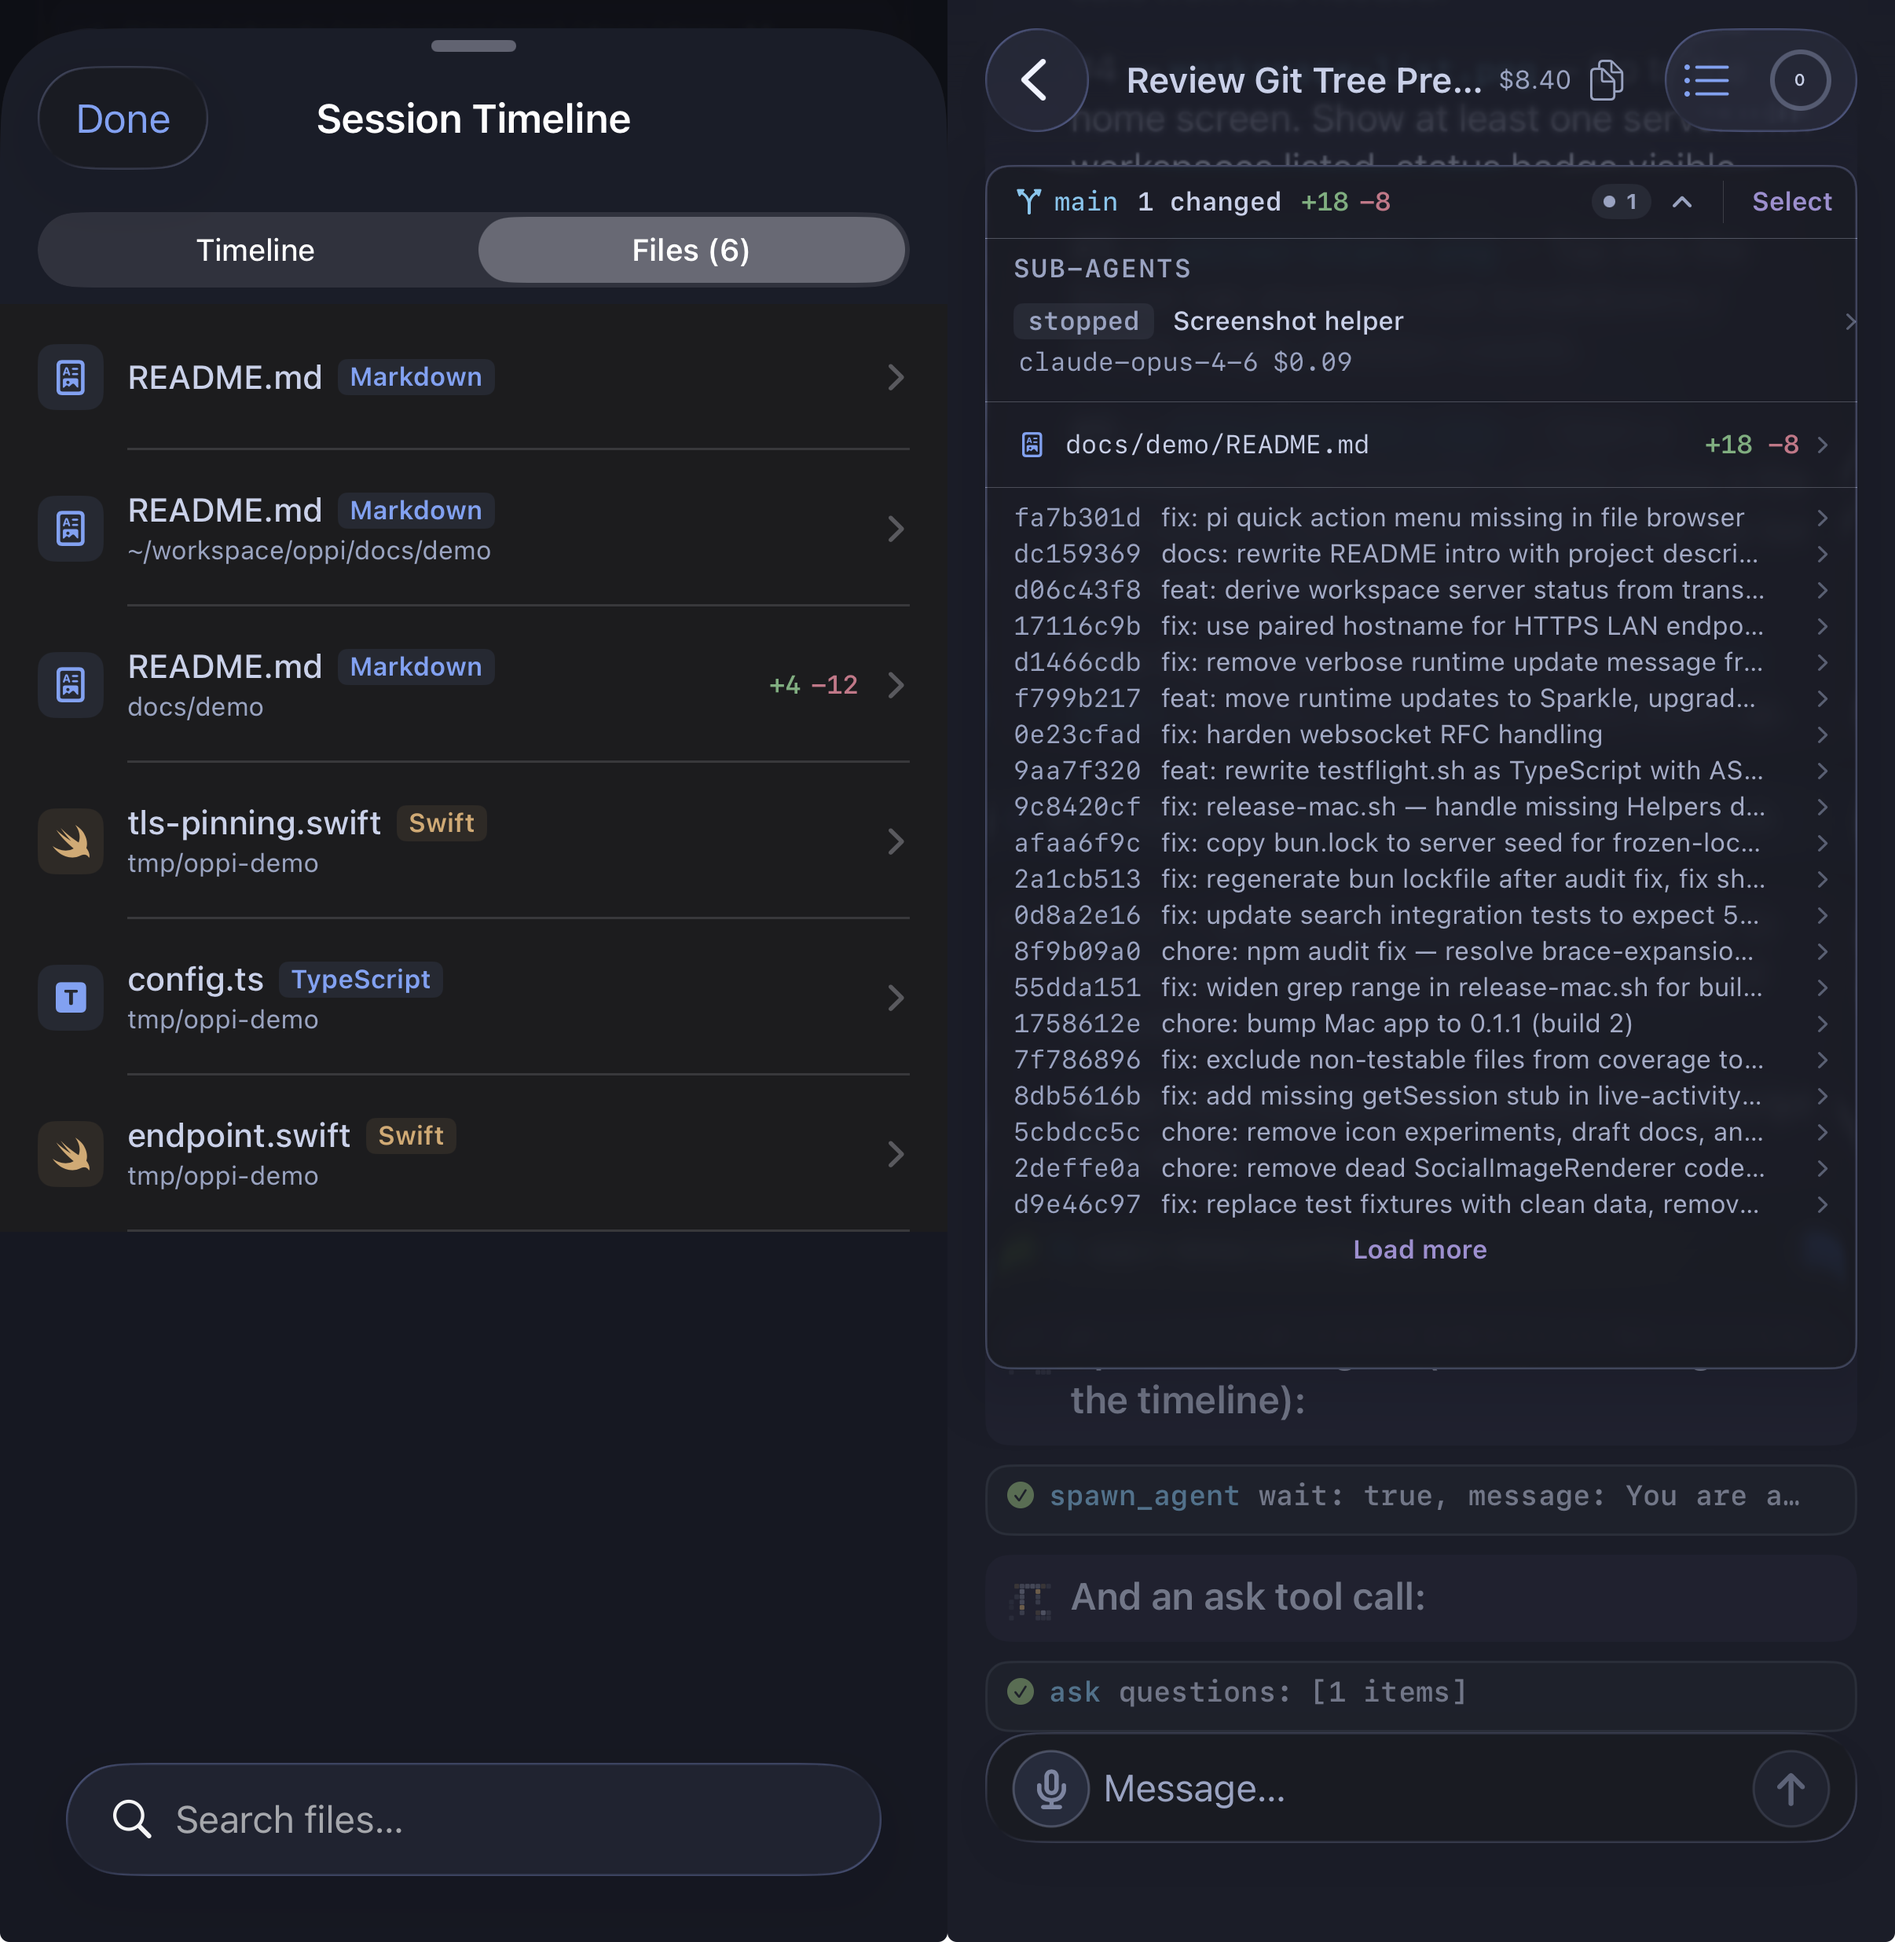
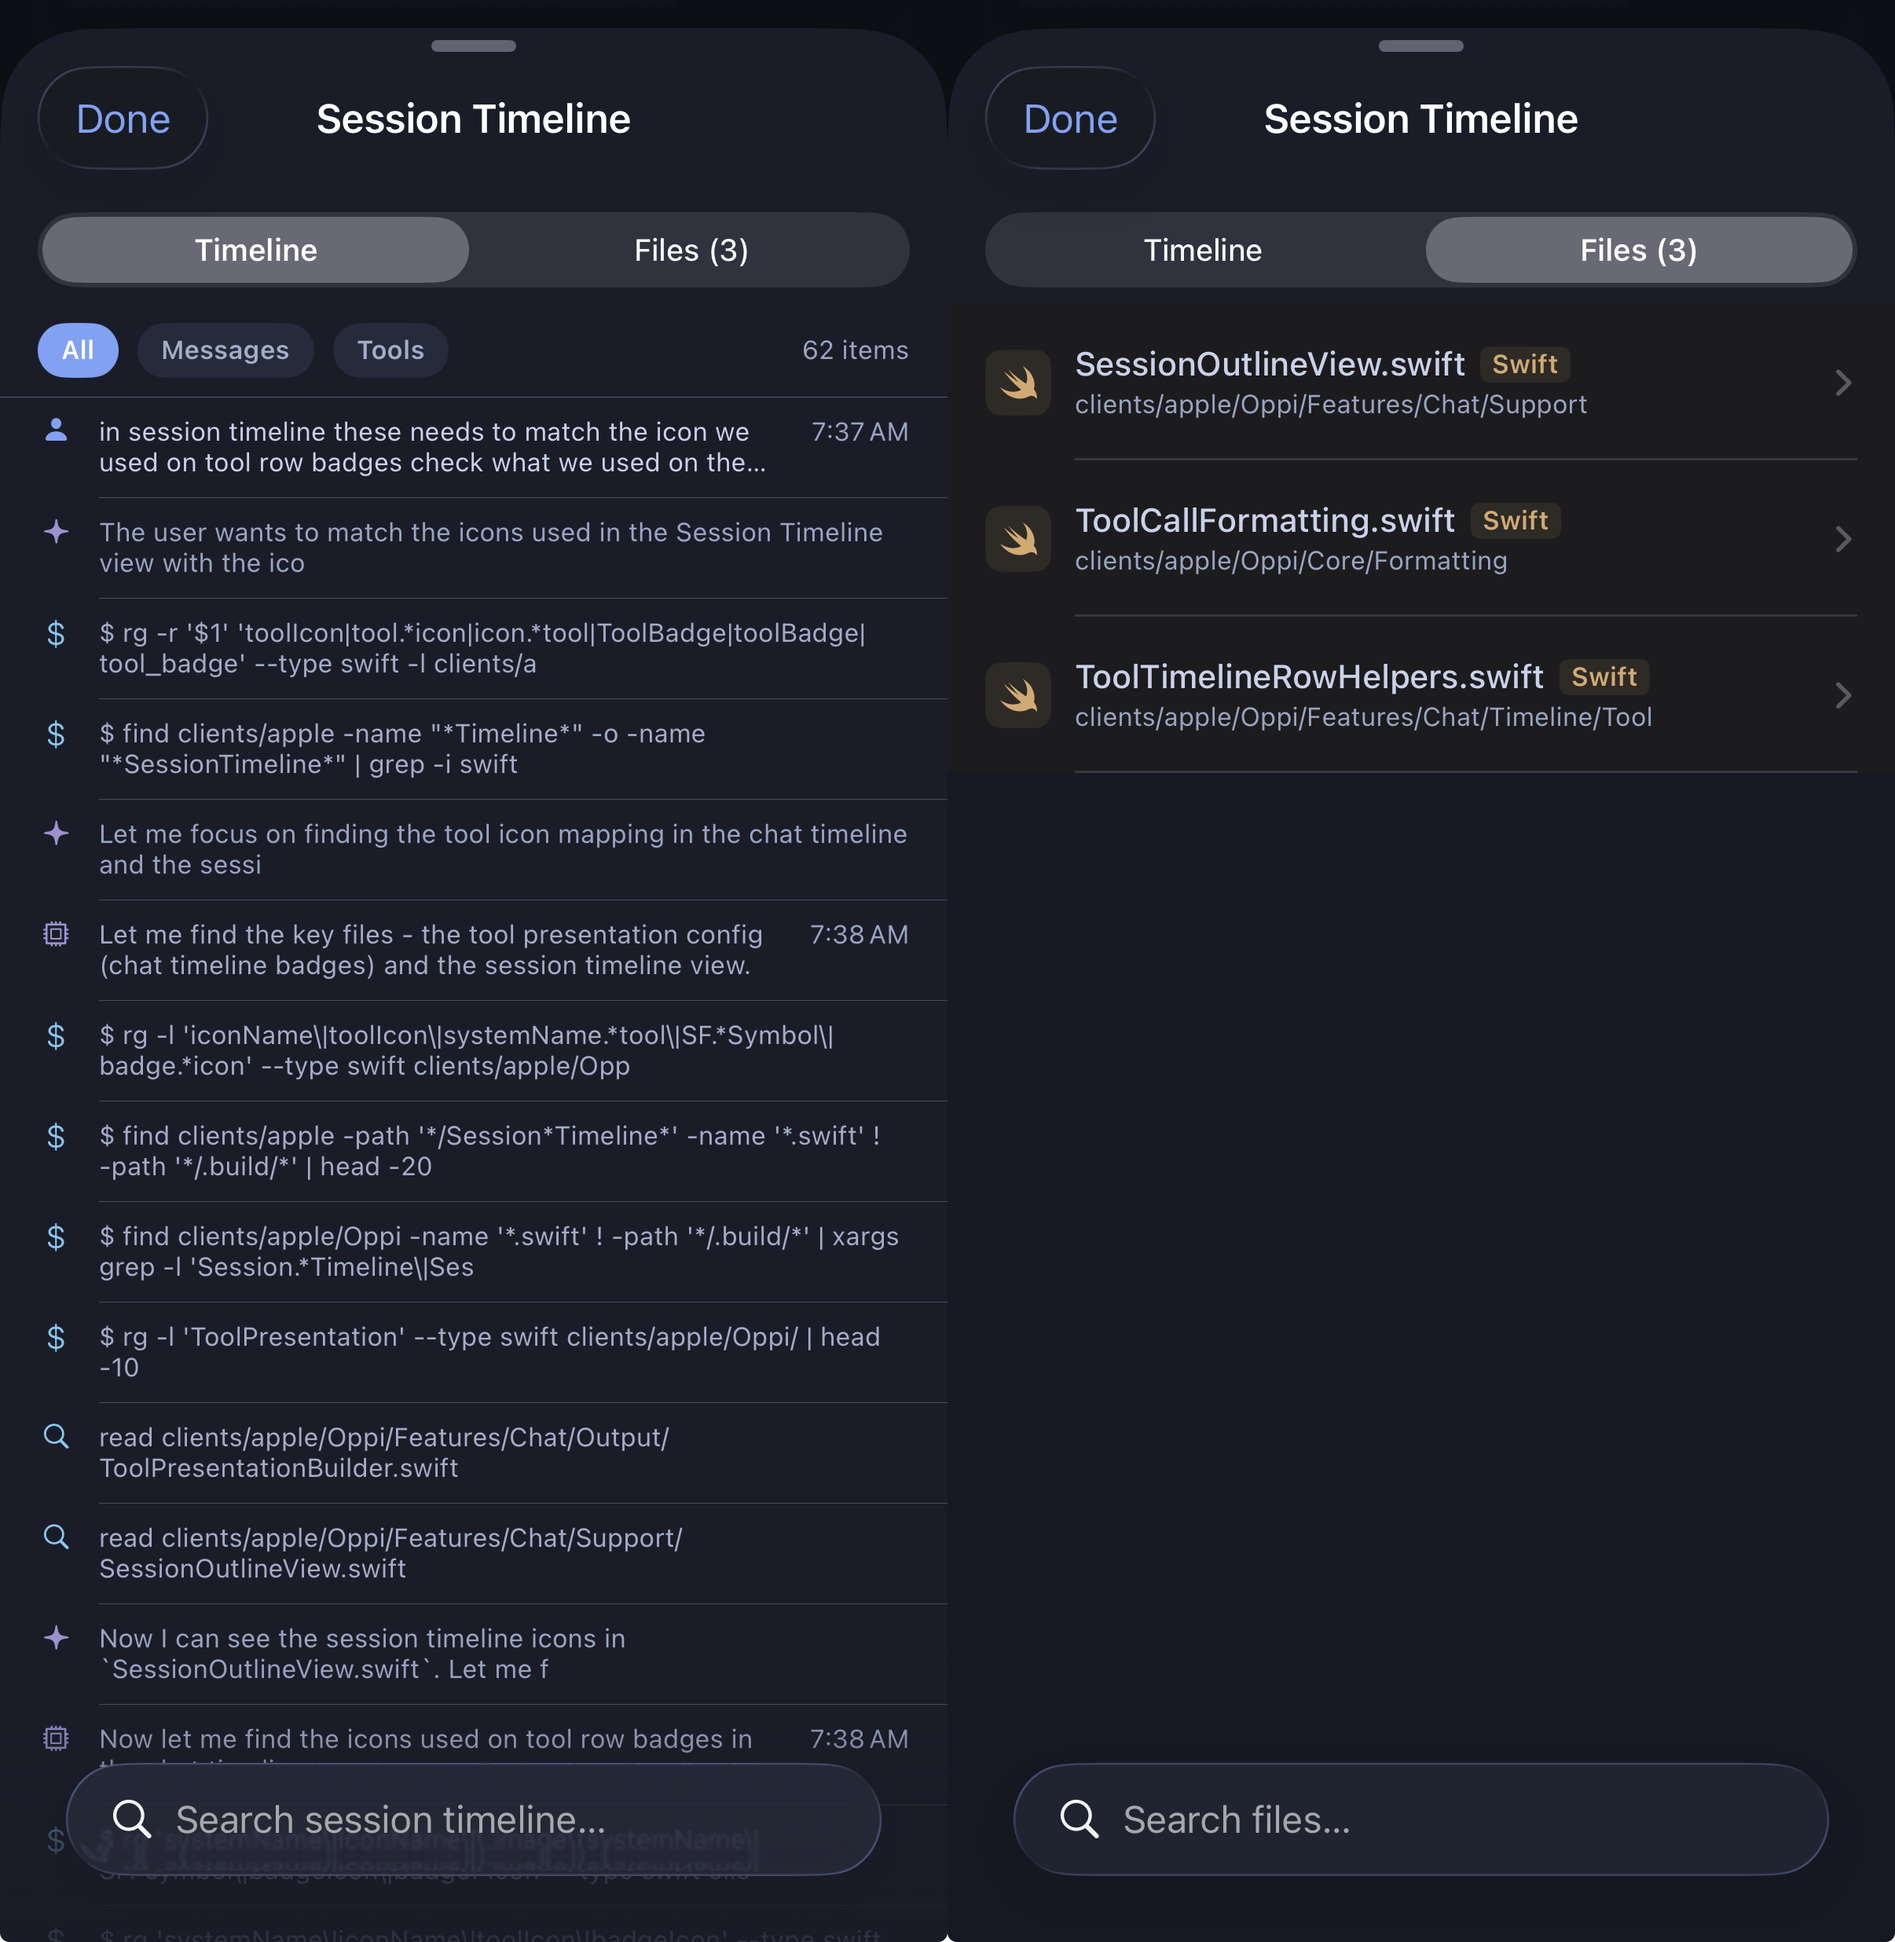
fix: remove redundant language badge from session files list, sync extension mappings
- Remove file type text badge from SessionFilesListView (filename
  extension already conveys the type, icon provides visual cue)
- Remove badgeColor(for:) local mapping that duplicated FileIcon colors
- Sync SyntaxLanguage.detect() with FileIcon extensions:
  pyw (Python), erb (Ruby), ksh/csh (Shell), hh (C++),
  sass (CSS), jsonc (JSON)
- Add justfile/rakefile to FileType well-known filenames

diff --git a/clients/apple/Oppi/Features/Chat/Timeline/SessionFilesListView.swift b/clients/apple/Oppi/Features/Chat/Timeline/SessionFilesListView.swift
@@ -2,7 +2,7 @@ import SwiftUI
 
 /// Displays the list of files touched (written/edited) by a session.
 ///
-/// Each row shows the file icon, filename, parent path, and a language/type badge.
+/// Each row shows the file icon, filename, and parent path.
 /// When `searchText` is non-empty, filters using `FuzzyMatch` and highlights
 /// matched characters in filename and parent path.
 ///
@@ -63,7 +63,6 @@ struct SessionFilesListView: View {
         let icon = FileIcon.forPath(path)
         let fileName = path.lastPathComponentForDisplay
         let parentPath = path.parentPathForDisplay
-        let fileType = FileType.detect(from: path)
         let gitFile = gitFilesByPath[path]
         let (filePositions, parentPositions) = Self.splitPositions(matchPositions, in: path)
 
@@ -79,7 +78,7 @@ struct SessionFilesListView: View {
                 } label: {
                     fileRowContent(
                         icon: icon, fileName: fileName, parentPath: parentPath,
-                        fileType: fileType, gitFile: gitFile,
+                        gitFile: gitFile,
                         filePositions: filePositions, parentPositions: parentPositions
                     )
                 }
@@ -102,7 +101,7 @@ struct SessionFilesListView: View {
                 } label: {
                     fileRowContent(
                         icon: icon, fileName: fileName, parentPath: parentPath,
-                        fileType: fileType, gitFile: gitFile,
+                        gitFile: gitFile,
                         filePositions: filePositions, parentPositions: parentPositions
                     )
                 }
@@ -110,7 +109,7 @@ struct SessionFilesListView: View {
                 // No workspace context — best effort plain display
                 fileRowContent(
                     icon: icon, fileName: fileName, parentPath: parentPath,
-                    fileType: fileType, gitFile: gitFile,
+                    gitFile: gitFile,
                     filePositions: filePositions, parentPositions: parentPositions
                 )
             }
@@ -122,7 +121,6 @@ struct SessionFilesListView: View {
         icon: FileIcon,
         fileName: String,
         parentPath: String?,
-        fileType: FileType,
         gitFile: GitFileStatus?,
         filePositions: [Int],
         parentPositions: [Int]
@@ -140,32 +138,19 @@ struct SessionFilesListView: View {
 
                 // File name + parent path
                 VStack(alignment: .leading, spacing: 2) {
-                    HStack(spacing: 6) {
-                        if filePositions.isEmpty {
-                            Text(fileName)
-                                .font(.subheadline.weight(.medium))
-                                .foregroundStyle(.themeFg)
-                                .lineLimit(1)
-                        } else {
-                            Text(Self.highlighted(
-                                fileName,
-                                positions: filePositions,
-                                baseColor: .themeFg,
-                                baseFont: .subheadline.weight(.medium)
-                            ))
+                    if filePositions.isEmpty {
+                        Text(fileName)
+                            .font(.subheadline.weight(.medium))
+                            .foregroundStyle(.themeFg)
                             .lineLimit(1)
-                        }
-
-                        // Language / type badge
-                        Text(fileType.displayLabel)
-                            .font(.caption2.weight(.semibold))
-                            .foregroundStyle(badgeColor(for: fileType))
-                            .padding(.horizontal, 5)
-                            .padding(.vertical, 1)
-                            .background(
-                                badgeColor(for: fileType).opacity(0.1),
-                                in: RoundedRectangle(cornerRadius: 4)
-                            )
+                    } else {
+                        Text(Self.highlighted(
+                            fileName,
+                            positions: filePositions,
+                            baseColor: .themeFg,
+                            baseFont: .subheadline.weight(.medium)
+                        ))
+                        .lineLimit(1)
                     }
 
                     if let parentPath {
@@ -280,31 +265,5 @@ struct SessionFilesListView: View {
 
     private func isAbsolutePath(_ path: String) -> Bool {
         path.hasPrefix("/") || path.hasPrefix("~")
-    }
-
-    private func badgeColor(for fileType: FileType) -> Color {
-        switch fileType {
-        case .html: return .themeOrange
-        case .markdown: return .themeBlue
-        case .json: return .themeYellow
-        case .code(let lang):
-            switch lang {
-            case .swift: return .themeOrange
-            case .typescript: return .themeBlue
-            case .javascript: return .themeYellow
-            case .python: return .themeCyan
-            case .go: return .themeCyan
-            case .rust: return .themeOrange
-            case .ruby: return .themeRed
-            case .shell: return .themeGreen
-            default: return .themeFgDim
-            }
-        case .image: return .themePurple
-        case .latex: return .themeGreen
-        case .orgMode: return .themeCyan
-        case .mermaid: return .themePurple
-        case .graphviz: return .themeOrange
-        default: return .themeComment
-        }
     }
 }

diff --git a/clients/apple/Oppi/Core/Formatting/SyntaxHighlighter.swift b/clients/apple/Oppi/Core/Formatting/SyntaxHighlighter.swift
@@ -45,19 +45,19 @@ enum SyntaxLanguage: Sendable, Hashable {
         case "swift": return .swift
         case "ts", "tsx", "mts", "cts", "typescript": return .typescript
         case "js", "jsx", "mjs", "cjs", "javascript": return .javascript
-        case "py", "pyi", "python": return .python
+        case "py", "pyi", "pyw", "python": return .python
         case "go", "golang": return .go
         case "rs", "rust": return .rust
-        case "rb", "ruby": return .ruby
-        case "sh", "bash", "zsh", "fish", "shell": return .shell
+        case "rb", "erb", "ruby": return .ruby
+        case "sh", "bash", "zsh", "fish", "ksh", "csh", "shell": return .shell
         case "html", "htm": return .html
-        case "css", "scss", "less": return .css
-        case "json", "jsonl", "geojson": return .json
+        case "css", "scss", "less", "sass": return .css
+        case "json", "jsonl", "geojson", "jsonc": return .json
         case "yaml", "yml": return .yaml
         case "toml": return .toml
         case "sql": return .sql
         case "c", "h": return .c
-        case "cpp", "cc", "cxx", "hpp", "hxx", "c++": return .cpp
+        case "cpp", "cc", "cxx", "hpp", "hxx", "hh", "c++": return .cpp
         case "java": return .java
         case "kt", "kts", "kotlin": return .kotlin
         case "zig": return .zig

diff --git a/clients/apple/Oppi/Core/Views/FileContentTypes.swift b/clients/apple/Oppi/Core/Views/FileContentTypes.swift
@@ -36,8 +36,11 @@ enum FileType: Equatable {
 
         // Well-known filenames without extension
         switch filename {
-        case "dockerfile", "containerfile", "makefile", "gnumakefile":
+        case "dockerfile", "containerfile", "makefile", "gnumakefile",
+             "justfile":
             return .code(language: .shell)
+        case "rakefile":
+            return .code(language: .ruby)
         case ".gitignore", ".dockerignore", ".prettierignore", ".eslintignore",
              ".npmignore", ".hgignore":
             return .code(language: .shell)

diff --git a/docs/demo/README.md b/docs/demo/README.md
@@ -12,17 +12,17 @@
 
 ![Markdown and bash](markdown-bash-combined.png)
 
-## Edit diff
+## Edit and file diff
 
-![Edit diff](edit-diff-rendering.png)
+![Diff](diff-combined.png)
 
 ## Ask tool
 
 ![Ask](ask-combined.png)
 
-## Context inspector
+## Workspace editor and context inspector
 
-![Context](context-inspector-solo.png)
+![Workspace and context](workspace-context-combined.png)
 
 ## Permission gate and safety rules
 
